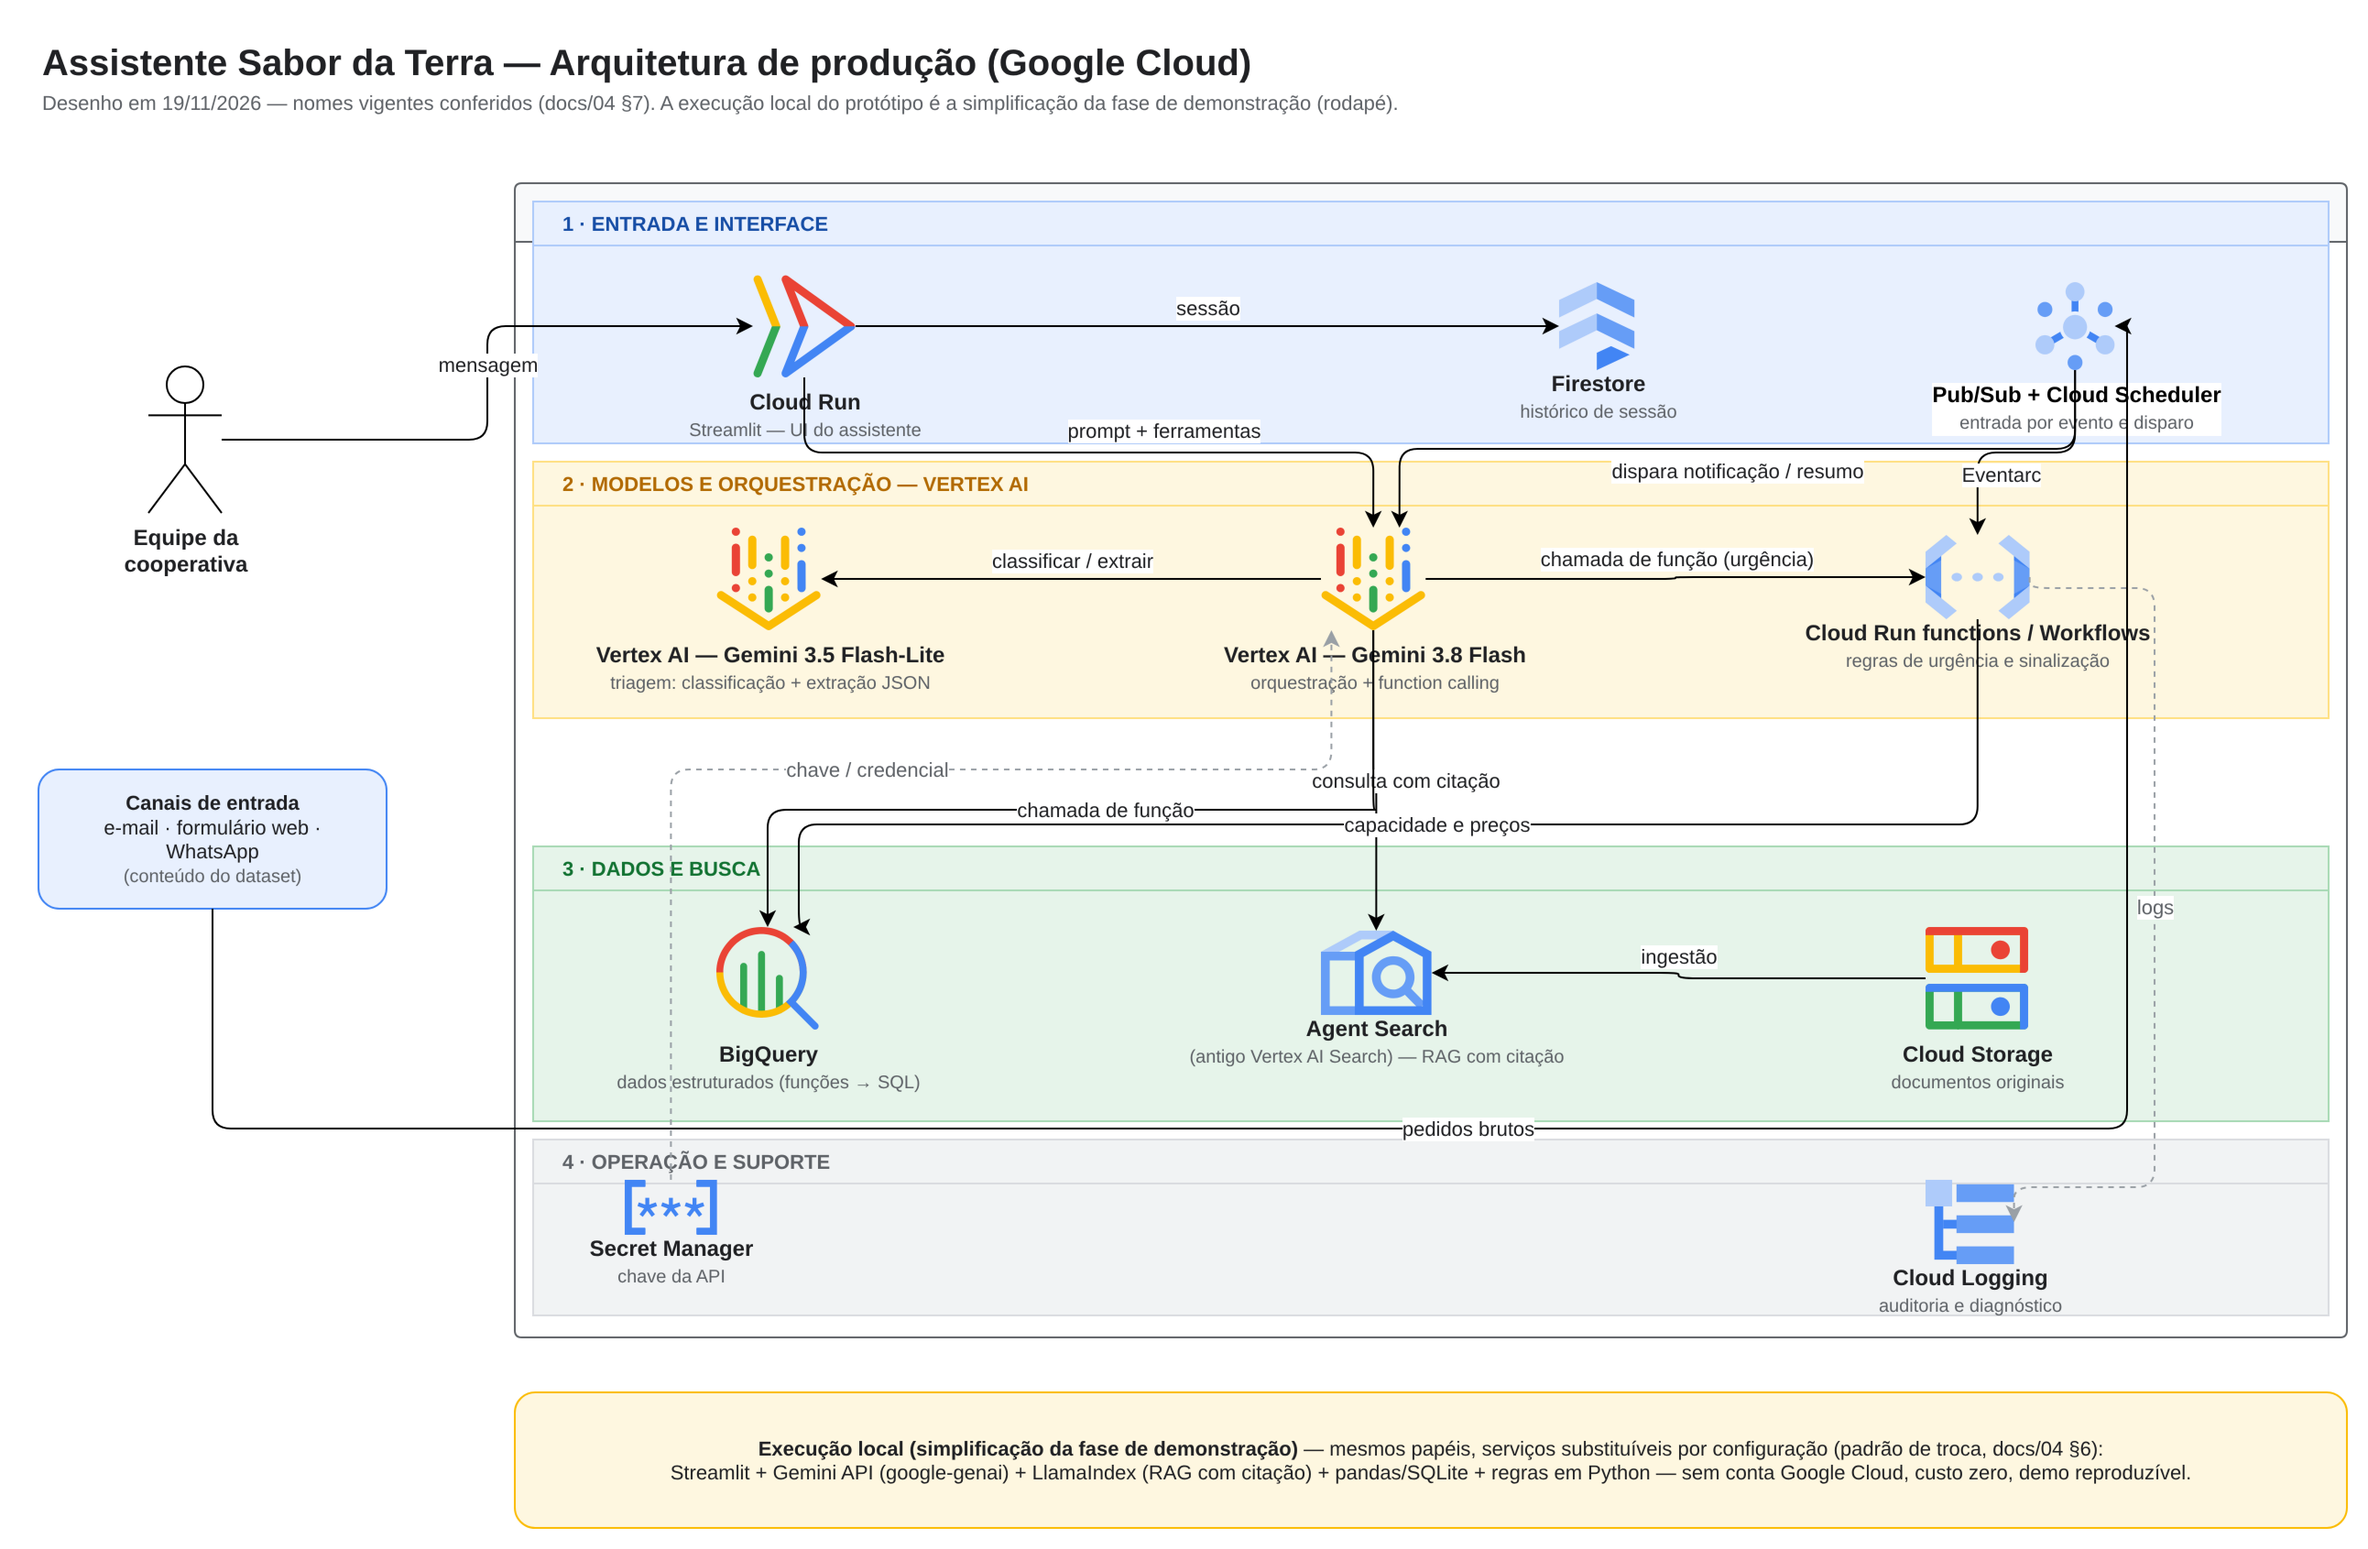
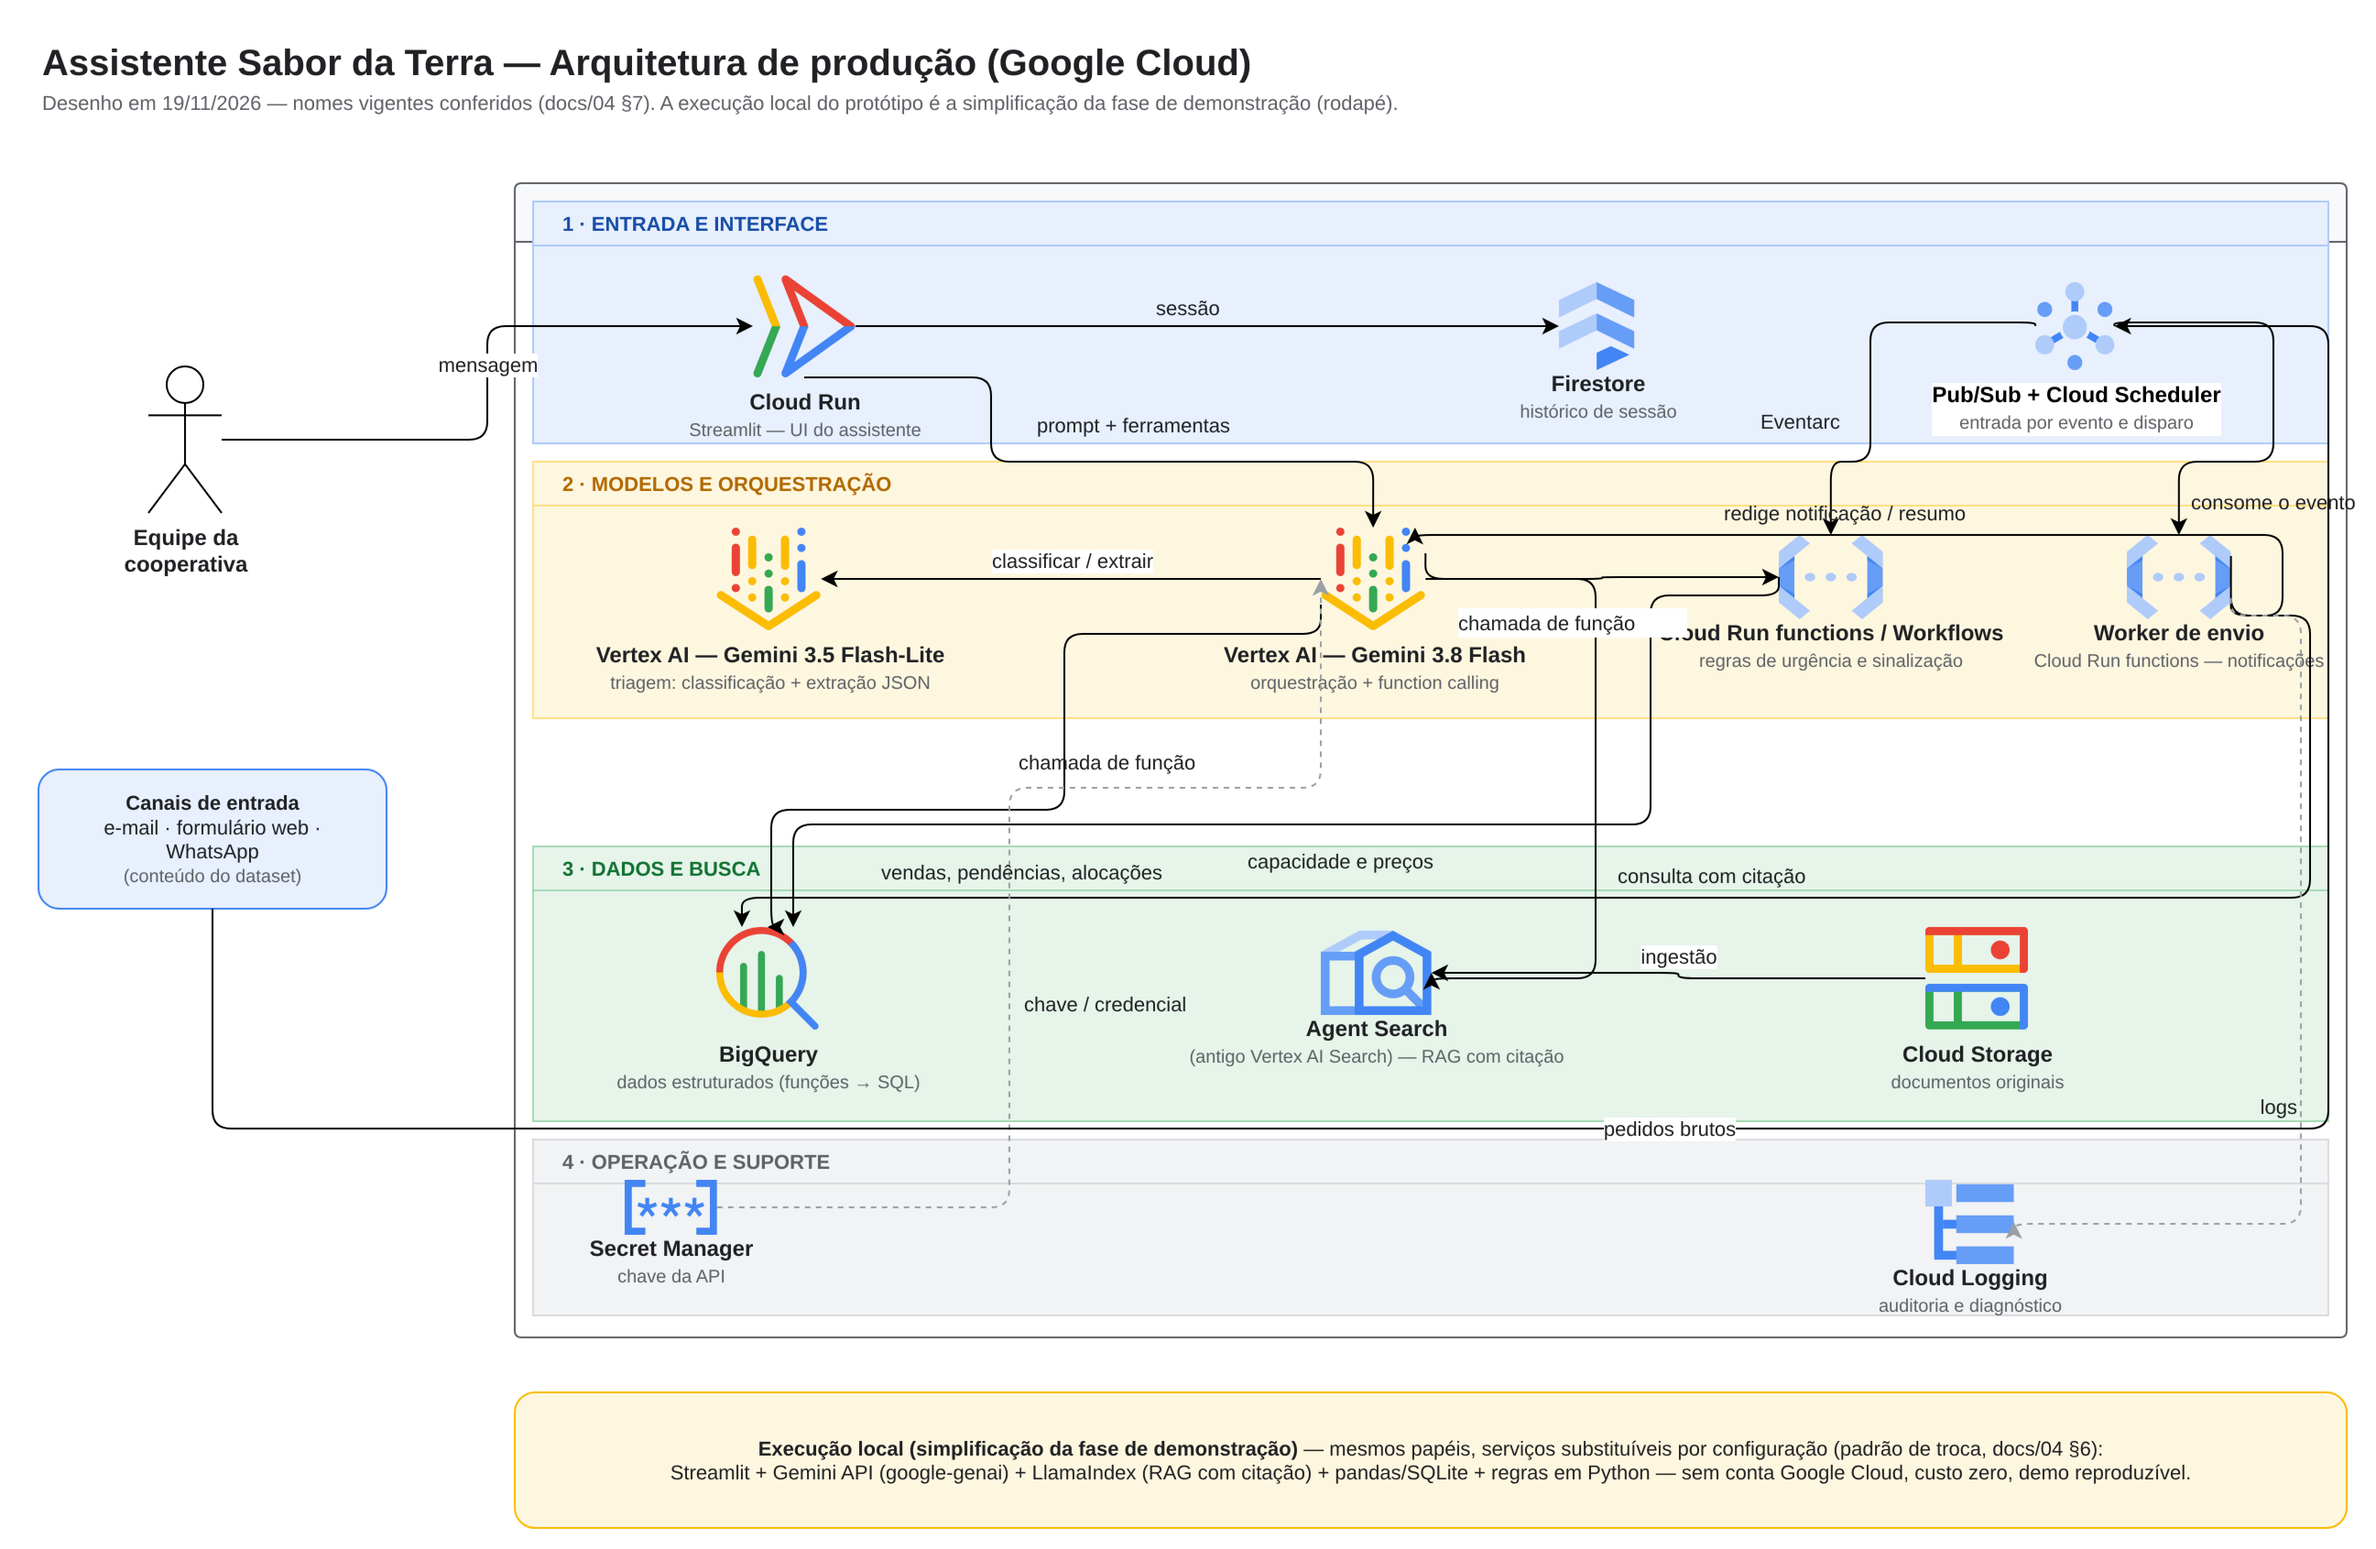
Diagramas e sequências: revisão do PR #33 aplicada
- §8.1 e drawio de produção: Pub/Sub aciona o Worker de envio (Cloud Run functions), que consulta o BigQuery e chama o Gemini — sem disparo direto no modelo (§12.3, §11.4)
- §12.1 e sequência do Desafio A: o function calling sai do orquestrador (Gemini 3.8 Flash), em coerência com a §2 e o §8.1 — a UI só entrega o turno
- drawio de produção: Worker de envio na camada 2, rotas redesenhadas com desvios — nenhuma seta atravessa rótulo, rótulos como células posicionadas
- §12.3: nota de que o Worker de envio é desenho de produção e ainda não foi implementado (§11.4)

diff --git a/docs/04-arquitetura.md b/docs/04-arquitetura.md
@@ -215,6 +215,7 @@ flowchart TB
     VAI["Vertex AI — Gemini 3.8 Flash<br/>orquestração + function calling"]
     FL["Vertex AI — Gemini 3.5 Flash-Lite<br/>triagem: classificação + extração JSON"]
     FUN["Cloud Run functions / Workflows<br/>regras de urgência e sinalização"]
+    WK["Worker de envio<br/>Cloud Run functions"]
     BQ["BigQuery<br/>dados estruturados (funções → SQL)"]
     AS["Agent Search (antigo Vertex AI Search)<br/>RAG documental com citação"]
     GCS["Cloud Storage<br/>documentos originais"]
@@ -232,13 +233,16 @@ flowchart TB
     VAI -->|"consulta com citação"| AS
     Canais -->|"pedidos brutos"| PS
     PS -->|"Eventarc: dispara o workflow"| FUN
-    PS -->|"dispara notificação/resumo"| VAI
+    PS -->|"notificações / resumos"| WK
+    WK -->|"redige"| VAI
+    WK -->|"consulta dados"| BQ
     GCS -->|"ingestão"| AS
     FUN -->|"consulta sazonalidade/capacidade/preços"| BQ
     SM -.->|"chave/credencial"| VAI
     CR -.-> LOG
     VAI -.-> LOG
     FUN -.-> LOG
+    WK -.-> LOG
 ```
 
 Versão draw.io (ícones oficiais do Google Cloud, editável em `docs/img/arquitetura-google.drawio`):
@@ -588,29 +592,34 @@ pytest tests/test_infra.py                           # esquemas em sincronia e n
 
 ### 12.1 Desafio A — Interpretação e triagem de pedidos
 
-Mensagem coloquial → triagem no Flash-Lite → function calling para as funções
-de dados e de regras → composição da resposta no Flash → resposta com fonte.
+Mensagem coloquial → o orquestrador (Gemini 3.8 Flash) tria no Flash-Lite e
+chama as funções de dados e de regras via function calling → compõe a resposta
+→ resposta com fonte.
 
 ```mermaid
 sequenceDiagram
     autonumber
     actor U as Equipe da cooperativa
     participant UI as Cloud Run<br/>Streamlit
+    participant AG as Vertex AI<br/>Gemini 3.8 Flash (orquestrador)
     participant TR as Vertex AI<br/>Gemini 3.5 Flash-Lite (triagem)
     participant FN as Cloud Run functions /<br/>Workflows (regras)
     participant BQ as BigQuery
-    participant GM as Vertex AI<br/>Gemini 3.8 Flash (resposta)
     U->>UI: "preciso de 30kg de queijo coalho e umas caixas de goiaba pra sexta"
-    UI->>TR: triar mensagem (classificação + extração JSON)
-    TR-->>UI: tipo = pedido de compra; itens, prazos, comprador
-    UI->>FN: function calling: validar item / classificar urgência (regras determinísticas)
+    UI->>AG: prompt do turno + ferramentas (function calling nativo)
+    AG->>TR: triar mensagem (classificação + extração JSON)
+    TR-->>AG: tipo = pedido de compra; itens, prazos, comprador
+    AG->>FN: function calling: validar item / classificar urgência (regras determinísticas)
     FN->>BQ: sazonalidade, capacidade da semana, preços
     BQ-->>FN: dados da semana
-    FN-->>UI: urgência, alertas e sugestões de alocação
-    UI->>GM: compor resposta com o que as funções devolveram
-    GM-->>UI: resposta em PT-BR (números e datas sempre das funções)
+    FN-->>AG: urgência, alertas e sugestões de alocação
+    AG-->>UI: resposta composta em PT-BR — números e datas sempre das funções
     UI-->>U: resposta com fila estruturada e fontes citadas
 ```
+
+> O **function calling é do orquestrador** (Gemini 3.8 Flash), em coerência com
+> a §2 e com o §8.1: a UI entrega o turno e o modelo chama as ferramentas — a
+> triagem no Flash-Lite é a primeira ferramenta chamada.
 
 Versão draw.io (editável em `docs/img/sequencia-desafio-a.drawio`):
 
@@ -670,6 +679,11 @@ sequenceDiagram
     GM-->>WK: texto personalizado em PT-BR
     WK-->>P: mensagem enviada (e-mail/WhatsApp do dataset)
 ```
+
+> **O Worker de envio faz parte do desenho de produção e ainda não foi
+> implementado (§11.4):** o tópico `notificacoes-produtores` não tem
+> consumidor no protótipo e o Pub/Sub descarta o que chega ali. Na demo, a
+> saída aparece na interface (§4).
 
 Versão draw.io (editável em `docs/img/sequencia-desafio-c.drawio`):
 
